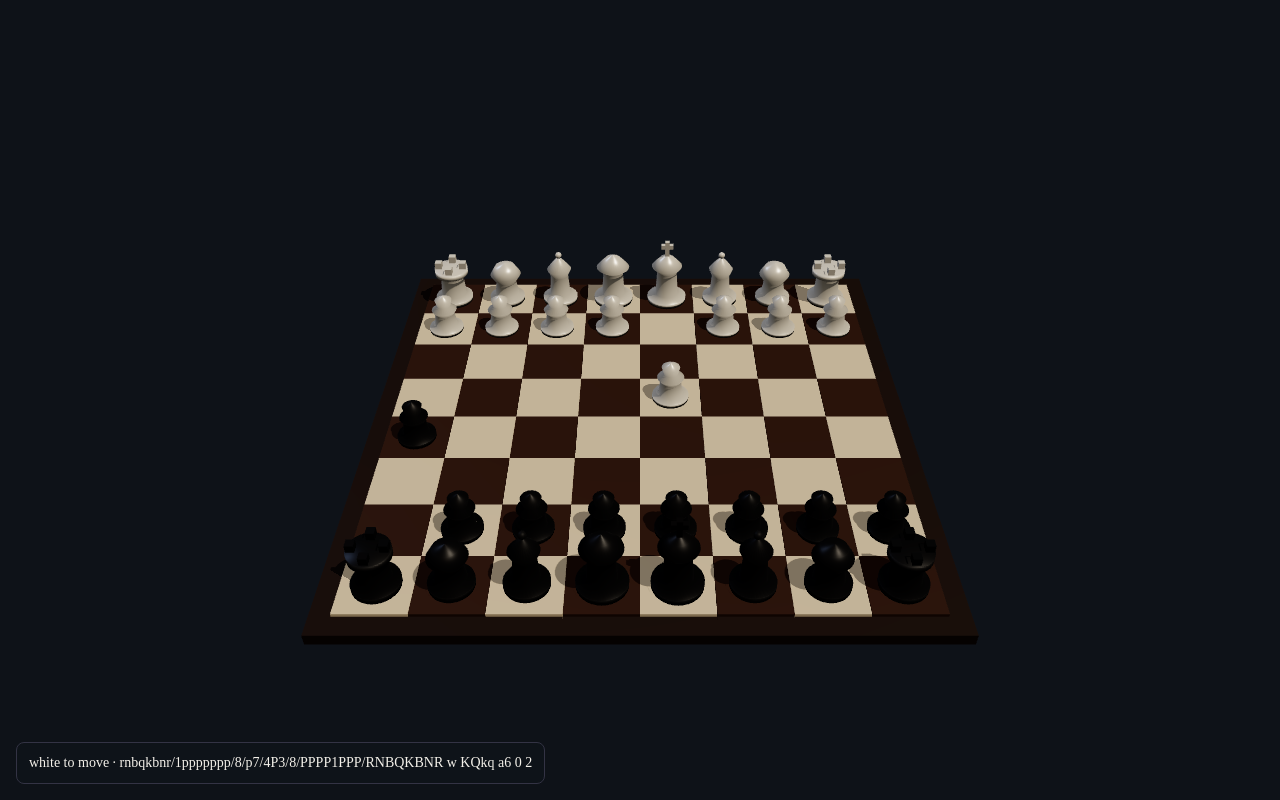
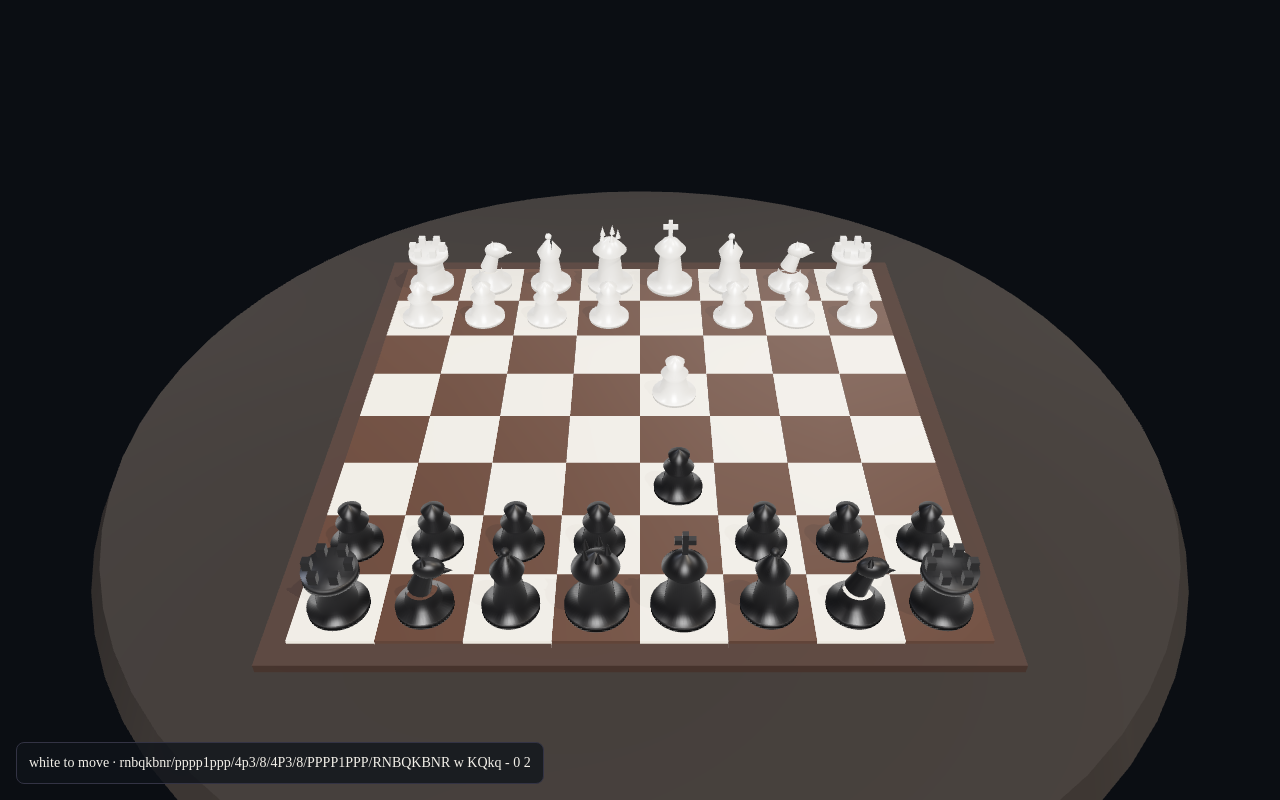
Differentiate knights/crowns and add IBL table presentation

diff --git a/pieces/index.js b/pieces/index.js
@@ -4,8 +4,8 @@ function lathePoints(profile) {
   return profile.map(([x, y]) => new THREE.Vector2(x, y));
 }
 
-function makeLathe(profile, material) {
-  const geo = new THREE.LatheGeometry(lathePoints(profile), 32);
+function makeLathe(profile, material, segments = 48) {
+  const geo = new THREE.LatheGeometry(lathePoints(profile), segments);
   const mesh = new THREE.Mesh(geo, material);
   mesh.castShadow = true;
   mesh.receiveShadow = true;
@@ -17,107 +17,148 @@ function woodMaterial(color, roughness, metalness) {
     color,
     roughness,
     metalness,
-    envMapIntensity: 0.85,
+    envMapIntensity: 1.1,
   });
 }
 
 const PROFILES = {
   p: [
     [0.0, 0.0],
-    [0.3, 0.0],
-    [0.3, 0.07],
-    [0.2, 0.11],
-    [0.17, 0.34],
-    [0.22, 0.42],
-    [0.12, 0.5],
-    [0.15, 0.62],
-    [0.0, 0.7],
+    [0.32, 0.0],
+    [0.32, 0.06],
+    [0.22, 0.1],
+    [0.16, 0.32],
+    [0.2, 0.4],
+    [0.11, 0.48],
+    [0.14, 0.6],
+    [0.0, 0.68],
   ],
   r: [
     [0.0, 0.0],
-    [0.34, 0.0],
-    [0.34, 0.09],
-    [0.23, 0.14],
-    [0.2, 0.52],
-    [0.3, 0.56],
-    [0.3, 0.68],
-    [0.0, 0.68],
-  ],
-  n: [
-    [0.0, 0.0],
-    [0.32, 0.0],
-    [0.32, 0.09],
-    [0.22, 0.15],
-    [0.18, 0.4],
-    [0.28, 0.55],
-    [0.18, 0.72],
-    [0.0, 0.78],
+    [0.36, 0.0],
+    [0.36, 0.08],
+    [0.24, 0.13],
+    [0.2, 0.5],
+    [0.32, 0.54],
+    [0.32, 0.66],
+    [0.0, 0.66],
   ],
   b: [
     [0.0, 0.0],
-    [0.32, 0.0],
-    [0.32, 0.09],
-    [0.19, 0.15],
-    [0.16, 0.52],
-    [0.22, 0.66],
-    [0.08, 0.84],
-    [0.0, 0.9],
+    [0.34, 0.0],
+    [0.34, 0.08],
+    [0.2, 0.14],
+    [0.15, 0.5],
+    [0.2, 0.64],
+    [0.07, 0.82],
+    [0.0, 0.88],
   ],
   q: [
     [0.0, 0.0],
-    [0.36, 0.0],
-    [0.36, 0.09],
-    [0.21, 0.15],
-    [0.18, 0.6],
-    [0.3, 0.7],
-    [0.14, 0.88],
-    [0.0, 0.96],
+    [0.38, 0.0],
+    [0.38, 0.08],
+    [0.22, 0.14],
+    [0.17, 0.58],
+    [0.28, 0.68],
+    [0.12, 0.86],
+    [0.0, 0.92],
   ],
   k: [
     [0.0, 0.0],
-    [0.36, 0.0],
-    [0.36, 0.09],
-    [0.21, 0.15],
-    [0.18, 0.6],
-    [0.28, 0.72],
-    [0.14, 0.88],
-    [0.0, 0.96],
+    [0.38, 0.0],
+    [0.38, 0.08],
+    [0.22, 0.14],
+    [0.17, 0.58],
+    [0.26, 0.7],
+    [0.12, 0.86],
+    [0.0, 0.92],
   ],
 };
 
 function addRookBattlements(group, material) {
-  for (let i = 0; i < 4; i += 1) {
-    const merlon = new THREE.Mesh(new THREE.BoxGeometry(0.12, 0.12, 0.12), material);
-    const a = (i / 4) * Math.PI * 2;
-    merlon.position.set(Math.cos(a) * 0.22, 0.74, Math.sin(a) * 0.22);
+  for (let i = 0; i < 6; i += 1) {
+    const merlon = new THREE.Mesh(new THREE.BoxGeometry(0.1, 0.14, 0.1), material);
+    const a = (i / 6) * Math.PI * 2;
+    merlon.position.set(Math.cos(a) * 0.24, 0.72, Math.sin(a) * 0.24);
     merlon.castShadow = true;
     group.add(merlon);
   }
 }
 
 function addKingCross(group, material) {
-  const upright = new THREE.Mesh(new THREE.BoxGeometry(0.08, 0.28, 0.08), material);
-  upright.position.y = 1.08;
+  const upright = new THREE.Mesh(new THREE.BoxGeometry(0.07, 0.3, 0.07), material);
+  upright.position.y = 1.06;
   upright.castShadow = true;
-  const bar = new THREE.Mesh(new THREE.BoxGeometry(0.22, 0.08, 0.08), material);
-  bar.position.y = 1.12;
+  const bar = new THREE.Mesh(new THREE.BoxGeometry(0.24, 0.07, 0.07), material);
+  bar.position.y = 1.1;
   bar.castShadow = true;
   group.add(upright, bar);
 }
 
 function addBishopMitre(group, material) {
-  const tip = new THREE.Mesh(new THREE.SphereGeometry(0.06, 12, 12), material);
-  tip.position.y = 0.94;
+  const tip = new THREE.Mesh(new THREE.SphereGeometry(0.055, 16, 16), material);
+  tip.position.y = 0.92;
   tip.castShadow = true;
-  group.add(tip);
+  const slit = new THREE.Mesh(
+    new THREE.BoxGeometry(0.02, 0.18, 0.12),
+    new THREE.MeshStandardMaterial({ color: 0x111111, roughness: 0.6, metalness: 0 }),
+  );
+  slit.position.set(0.04, 0.78, 0);
+  group.add(tip, slit);
+}
+
+function addQueenCrown(group, material) {
+  for (let i = 0; i < 5; i += 1) {
+    const spike = new THREE.Mesh(new THREE.ConeGeometry(0.045, 0.16, 8), material);
+    const a = (i / 5) * Math.PI * 2;
+    spike.position.set(Math.cos(a) * 0.14, 0.98, Math.sin(a) * 0.14);
+    spike.castShadow = true;
+    group.add(spike);
+  }
+}
+
+function makeKnight(material) {
+  const group = new THREE.Group();
+  const base = makeLathe(
+    [
+      [0.0, 0.0],
+      [0.34, 0.0],
+      [0.34, 0.08],
+      [0.22, 0.14],
+      [0.18, 0.32],
+    ],
+    material,
+  );
+  const neck = new THREE.Mesh(new THREE.CylinderGeometry(0.1, 0.14, 0.28, 16), material);
+  neck.position.set(0.02, 0.46, 0);
+  neck.rotation.z = -0.35;
+  neck.castShadow = true;
+  const head = new THREE.Mesh(new THREE.SphereGeometry(0.16, 16, 16), material);
+  head.scale.set(1.15, 0.85, 0.7);
+  head.position.set(0.12, 0.66, 0);
+  head.castShadow = true;
+  const snout = new THREE.Mesh(new THREE.ConeGeometry(0.08, 0.22, 12), material);
+  snout.rotation.z = -Math.PI / 2;
+  snout.position.set(0.28, 0.62, 0);
+  snout.castShadow = true;
+  const ear = new THREE.Mesh(new THREE.ConeGeometry(0.05, 0.12, 8), material);
+  ear.position.set(0.08, 0.8, 0.04);
+  ear.castShadow = true;
+  group.add(base, neck, head, snout, ear);
+  return group;
 }
 
 export function createPieceMesh(type, color) {
   const material = woodMaterial(
-    color === "white" ? 0xf4efe4 : 0x1a1a1c,
-    color === "white" ? 0.28 : 0.4,
-    color === "white" ? 0.22 : 0.18,
+    color === "white" ? 0xf7f1e6 : 0x141416,
+    color === "white" ? 0.22 : 0.36,
+    color === "white" ? 0.28 : 0.2,
   );
+  if (type === "n") {
+    const knight = makeKnight(material);
+    knight.userData = { type, color };
+    return knight;
+  }
   const profile = PROFILES[type] || PROFILES.p;
   const body = makeLathe(profile, material);
   const group = new THREE.Group();
@@ -125,6 +166,7 @@ export function createPieceMesh(type, color) {
   if (type === "r") addRookBattlements(group, material);
   if (type === "k") addKingCross(group, material);
   if (type === "b") addBishopMitre(group, material);
+  if (type === "q") addQueenCrown(group, material);
   group.userData = { type, color };
   return group;
 }

diff --git a/main.js b/main.js
@@ -1,5 +1,6 @@
 import * as THREE from "three";
 import { OrbitControls } from "three/examples/jsm/controls/OrbitControls.js";
+import { RoomEnvironment } from "three/examples/jsm/environments/RoomEnvironment.js";
 import { ChessRules } from "./chess/rules.js";
 import { SimpleAI } from "./chess/ai.js";
 import { createBoard, squareToWorld } from "./board/index.js";
@@ -11,11 +12,11 @@ import { showRestartOverlay } from "./ui/restartOverlay.js";
 
 const app = document.getElementById("app");
 const scene = new THREE.Scene();
-scene.background = new THREE.Color(0x0e1218);
-scene.fog = new THREE.Fog(0x0e1218, 18, 36);
+scene.background = new THREE.Color(0x0b0e13);
+scene.fog = new THREE.Fog(0x0b0e13, 16, 34);
 
-const camera = new THREE.PerspectiveCamera(45, window.innerWidth / window.innerHeight, 0.1, 100);
-camera.position.set(0, 10, 12);
+const camera = new THREE.PerspectiveCamera(42, window.innerWidth / window.innerHeight, 0.1, 100);
+camera.position.set(0, 9.5, 11.5);
 
 const renderer = new THREE.WebGLRenderer({ antialias: true });
 renderer.setPixelRatio(Math.min(window.devicePixelRatio, 2));
@@ -23,28 +24,39 @@ renderer.setSize(window.innerWidth, window.innerHeight);
 renderer.shadowMap.enabled = true;
 renderer.shadowMap.type = THREE.PCFSoftShadowMap;
 renderer.toneMapping = THREE.ACESFilmicToneMapping;
-renderer.toneMappingExposure = 1.15;
+renderer.toneMappingExposure = 1.2;
 renderer.outputColorSpace = THREE.SRGBColorSpace;
 app.appendChild(renderer.domElement);
 
+const pmrem = new THREE.PMREMGenerator(renderer);
+scene.environment = pmrem.fromScene(new RoomEnvironment(), 0.04).texture;
+
 const controls = new OrbitControls(camera, renderer.domElement);
-controls.target.set(0, 0.4, 0);
+controls.target.set(0, 0.35, 0);
 controls.enableDamping = true;
 controls.maxPolarAngle = Math.PI * 0.48;
 
-scene.add(new THREE.HemisphereLight(0xf5f0e6, 0x1a120c, 0.65));
-const key = new THREE.DirectionalLight(0xfff1dc, 1.35);
+scene.add(new THREE.HemisphereLight(0xf8f2e8, 0x1a120c, 0.45));
+const key = new THREE.DirectionalLight(0xfff1dc, 1.45);
 key.position.set(6, 12, 4);
 key.castShadow = true;
 key.shadow.mapSize.set(2048, 2048);
 key.shadow.bias = -0.0002;
 scene.add(key);
-const fill = new THREE.DirectionalLight(0xb8d0ff, 0.35);
+const fill = new THREE.DirectionalLight(0xb8d0ff, 0.4);
 fill.position.set(-7, 6, -4);
 scene.add(fill);
-const rim = new THREE.PointLight(0xffc9a1, 0.45, 30);
+const rim = new THREE.PointLight(0xffc9a1, 0.55, 30);
 rim.position.set(-2, 3, 6);
 scene.add(rim);
+
+const table = new THREE.Mesh(
+  new THREE.CylinderGeometry(7.2, 7.4, 0.35, 64),
+  new THREE.MeshStandardMaterial({ color: 0x1a1410, roughness: 0.75, metalness: 0.05 }),
+);
+table.position.y = -0.28;
+table.receiveShadow = true;
+scene.add(table);
 
 createBoard(scene);
 let game = new ChessRules();
@@ -155,9 +167,10 @@ function pickSquare(event) {
   pointer.x = (event.clientX / window.innerWidth) * 2 - 1;
   pointer.y = -(event.clientY / window.innerHeight) * 2 + 1;
   raycaster.setFromCamera(pointer, camera);
-  const hits = raycaster.intersectObjects([...pieces.children, ...highlights.children], false);
+  const hits = raycaster.intersectObjects([...pieces.children, ...highlights.children], true);
   if (!hits.length) return null;
-  const obj = hits[0].object;
+  let obj = hits[0].object;
+  while (obj && !obj.userData?.square && !obj.userData?.to && obj.parent) obj = obj.parent;
   if (obj.userData.to) return { kind: "move", ...obj.userData };
   if (obj.userData.square) return { kind: "piece", square: obj.userData.square };
   return null;

diff --git a/board/index.js b/board/index.js
@@ -4,14 +4,14 @@ export function createBoard(scene) {
   const root = new THREE.Group();
   root.name = "board";
   const lightMat = new THREE.MeshStandardMaterial({
-    color: 0xe2d0b2,
-    roughness: 0.38,
-    metalness: 0.08,
+    color: 0xe8d7bb,
+    roughness: 0.32,
+    metalness: 0.1,
   });
   const darkMat = new THREE.MeshStandardMaterial({
-    color: 0x4a2f22,
-    roughness: 0.48,
-    metalness: 0.12,
+    color: 0x3f281c,
+    roughness: 0.42,
+    metalness: 0.14,
   });
   for (let rank = 0; rank < 8; rank += 1) {
     for (let file = 0; file < 8; file += 1) {
